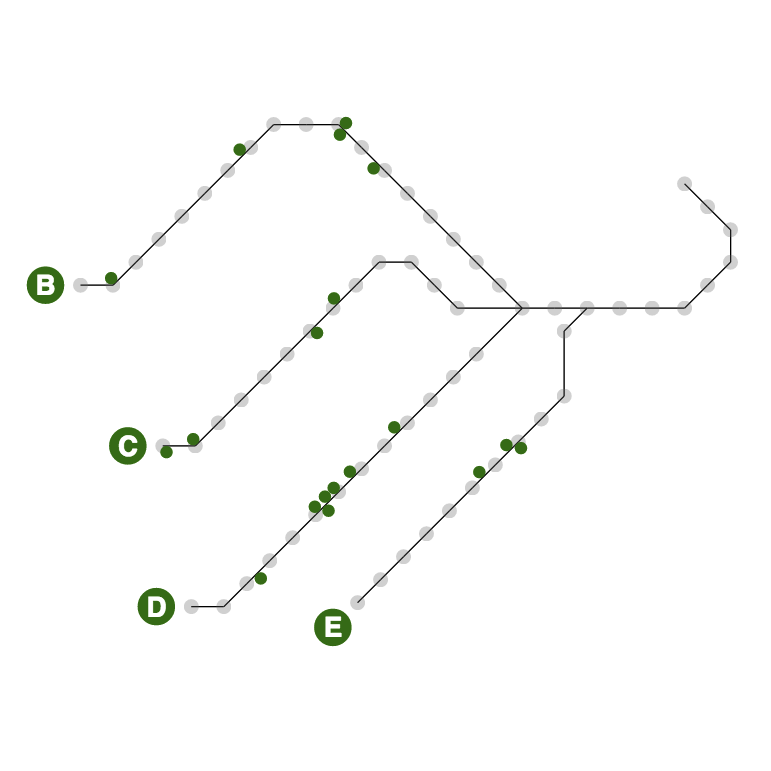
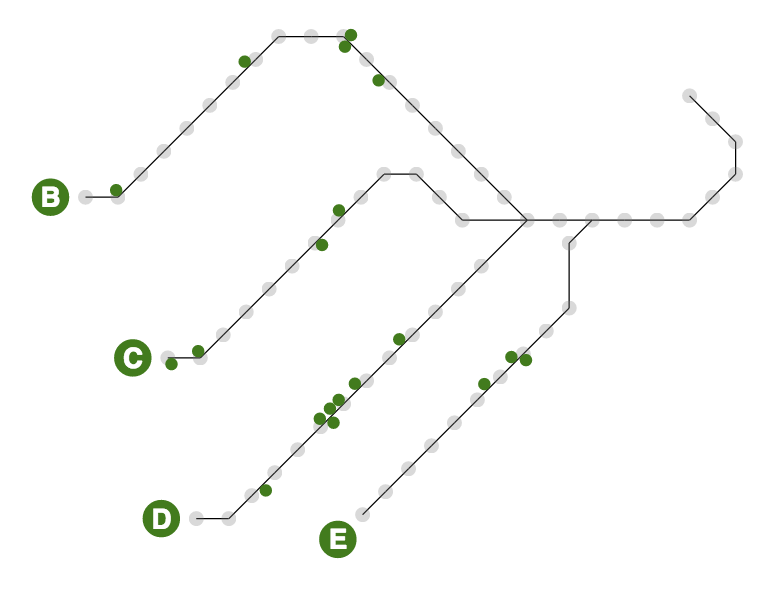
Built mbtaviz from commit a6e4586 on branch master

diff --git a/index.html b/index.html
@@ -12,7 +12,7 @@
   <meta property="og:description" content="An interactive look at the first day of newly released Green Line location data made available by the MBTA.">
   <meta property="og:type" content="website"/>
   <meta property="og:url" content="http://mbtaviz.github.io/green-line-release/"/>
-  <meta property="og:image" content="http://mbtaviz.github.io/green-line-release/media/preview-large.png"/>
+  <meta property="og:image" content="http://mbtaviz.github.io/green-line-release/media/preview-large-square.png"/>
   <meta property="fb:admins" content="9318920"/>
 
   <!-- Twitter card metadata -->
